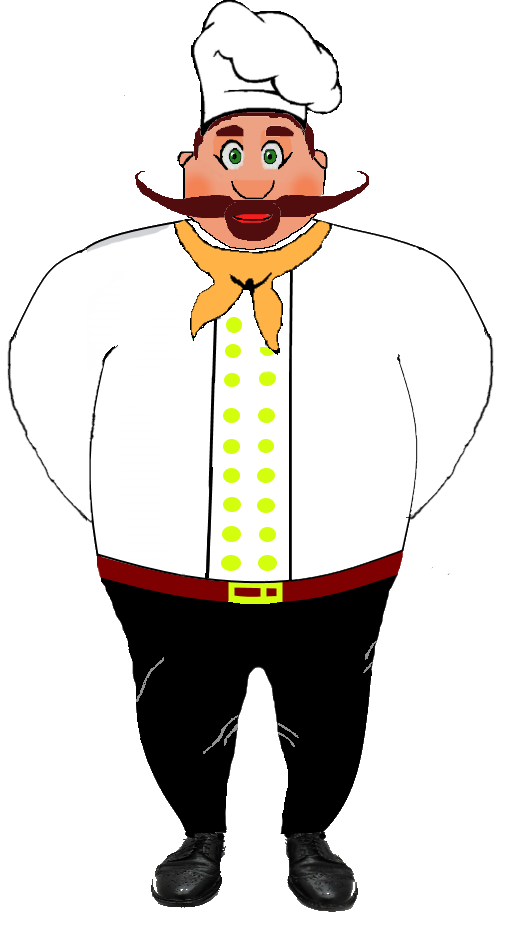
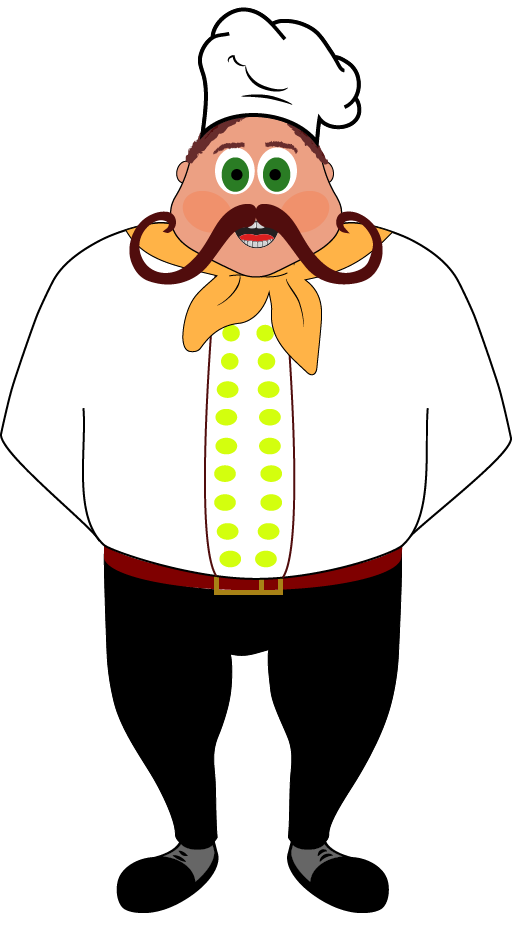
- Changed the teacher images and dialog frame - The questionnaires are showed even the user passed the mission

diff --git a/src/pt/uc/dei/nobugssnackbar/dao/jdbc/GameJdbcDao.java b/src/pt/uc/dei/nobugssnackbar/dao/jdbc/GameJdbcDao.java
@@ -677,7 +677,7 @@ public class GameJdbcDao implements GameDao {
 						}
 					}
 
-				if (rs.getLong(11) == finishedMission) {
+				if (finishedMission >= rs.getLong(11)) { // changed in 25/02/16: if I added a questionnaire after the player passed this mission, the questionnaire is showed
 
 					quest = new Questionnaire();
 					quest.setId(lastQuestionnaireId);
